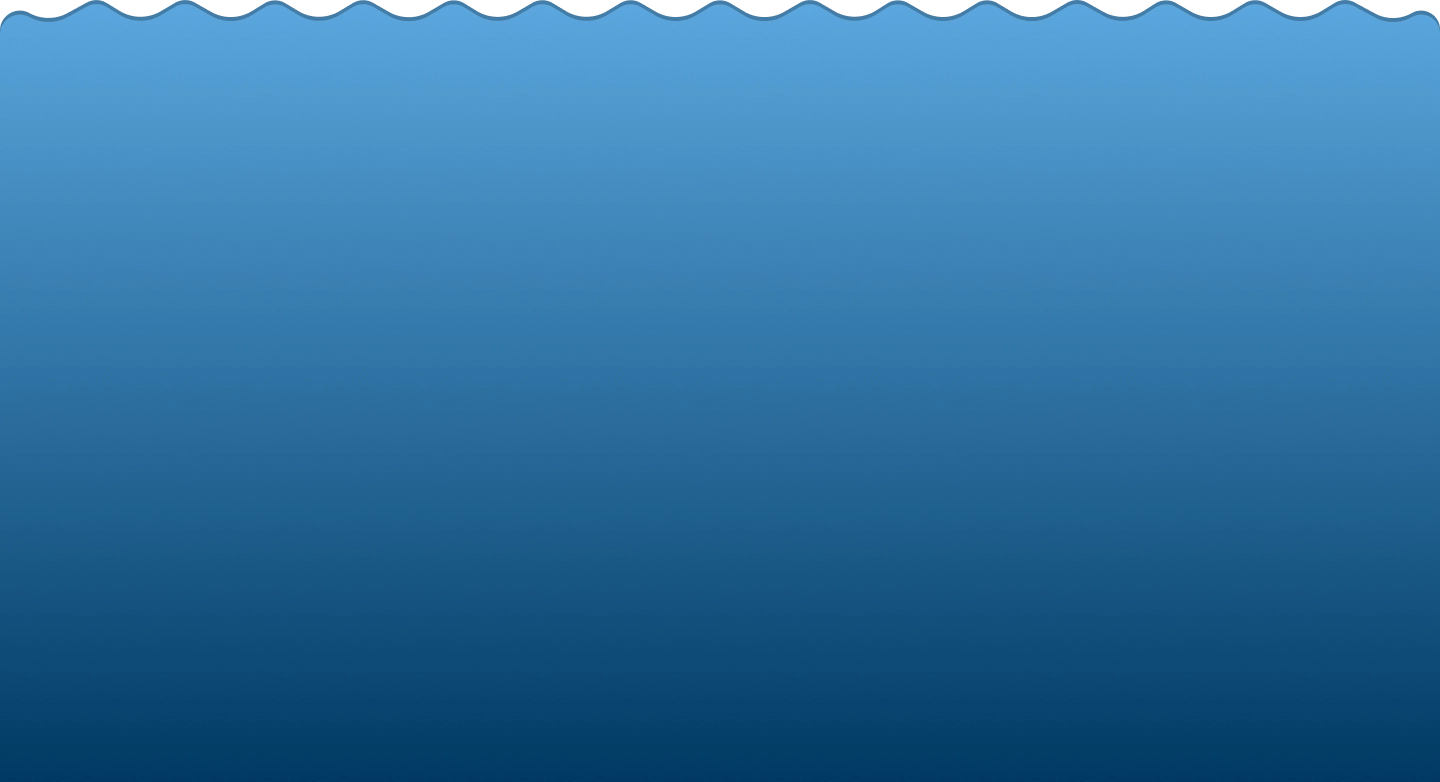
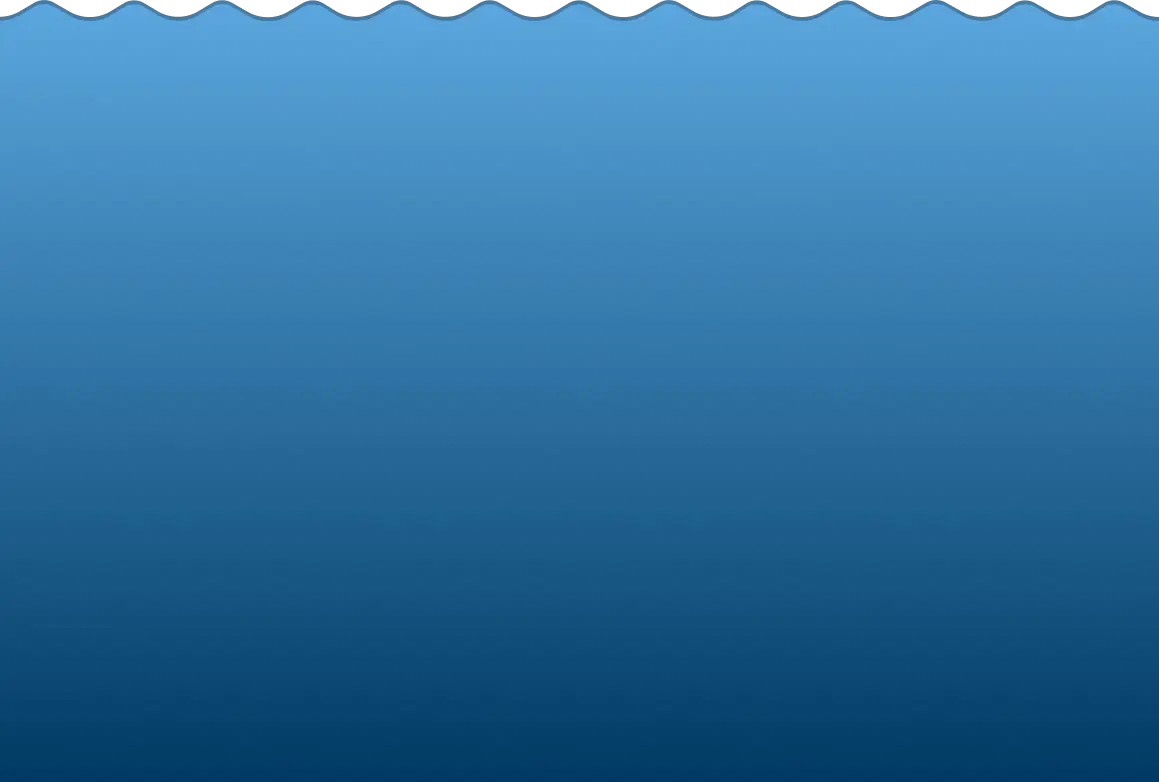
fix

Changed region(s): [[0.0, 0.0, 1.0, 0.0307]]

diff --git a/src/components/Decor/Decor.scss b/src/components/Decor/Decor.scss
@@ -1,71 +1,92 @@
 @keyframes shake {
-    0%{
-        transform: translateX(0px);
-        transform: translateY(0px);
+    0% {
         rotate: 0deg;
     }
-    33%{
-        transform: translate(30px, -10px);
+
+    33% {
         rotate: -5deg;
     }
-    66%{
-        transform: translate(-20px, 10px);
+
+    66% {
         rotate: 2deg;
     }
-    100%{
-        transform: translate(0px, 0px);
+
+    100% {
         rotate: 0deg;
     }
 }
 
-.Decor{
+.Decor {
     width: 100%;
     background-image: url('/img/bg.webp');
-    background-repeat: no-repeat;
-    background-size: cover;
-    min-height: 90vh;
+    background-repeat: repeat-x;
+    height: 600px;
+    background-size: 1200px 600px;
     display: flex;
     justify-content: center;
     align-items: flex-end;
-    &__info{
+
+    @media(max-width: 800px) {
+
+        height: 300px;
+        background-size: 600px 300px;
+    }
+
+
+    animation: sea 100s infinite linear;
+
+    @keyframes sea {
+        0% {
+            background-position: 0% 0%;
+        }
+
+        100% {
+            background-position: -100% 0%;
+        }
+    }
+
+    &__info {
         width: 100% !important;
         display: flex;
         align-items: flex-end;
-        justify-content: space-between;
-        &_table{
+        justify-content: center;
+
+        &_table {
             animation: shake 4s infinite;
-            width: 10% !important;
-            justify-content: start !important;
-            bottom: 30vh;
-            left: 20%;
-            img{
-                width: 150%;
+            align-items: end !important;
+            left: 280px;
+            bottom: 120px;
+
+            @media(max-width: 1300px) {
+                left: 20vw;
+                bottom: 15vw;
+            }
+
+            &_right {
+                left: -200px;
+                bottom: 150px;
+                animation: shake 7s infinite;
+
+                @media(max-width: 1300px) {
+                    left: -20vw;
+                    bottom: 15vw;
+                }
+            }
+
+            img {
+                width: 15vw;
+                max-width: 200px;
             }
         }
-        &_duck{
+
+        &_duck {
             align-items: flex-end !important;
             justify-content: center !important;
             z-index: 999;
-            width: 80% !important;
-            img{
-                width: 100%;
-                min-width: 750px;
-                @media(max-height: 670px){
-                    width: 90%;
-                }
-                @media(max-height: 470px){
-                    width: 60%;
-                }
-            }
-        }
-        &_table2{
-            animation: shake 7s infinite;
-            width: 10% !important;
-            justify-content: end !important;
-            bottom: 30vh;
-            right: 20%;
-            img{
-                width: 150%;
+
+            img {
+                width: 90vw;
+                max-width: 1000px;
             }
         }
     }

diff --git a/src/components/Footer/Footer.scss b/src/components/Footer/Footer.scss
@@ -1,4 +1,4 @@
-.Footer{
+.Footer {
     width: 100%;
     display: flex;
     flex-wrap: wrap;
@@ -9,42 +9,65 @@
     border-top: 5px solid #447DA6;
     padding: 50px 20px 100px 20px;
     gap: 40px;
-    &__social{
+
+
+    animation: footerBg 100s infinite linear;
+
+    @keyframes footerBg {
+        0% {
+            background-position: 0% 0%;
+        }
+
+        100% {
+            background-position: 100% 200%;
+        }
+    }
+
+    &__social {
         width: 100%;
         display: flex;
         justify-content: center;
         align-items: center;
         gap: 20px;
-        img{
+
+        img {
             width: 89px;
         }
     }
-    &__title{
+
+    &__title {
         width: 100%;
         display: flex;
         justify-content: center;
         align-items: center;
         gap: 20px;
-        @media(max-width: 830px){
+
+        @media(max-width: 830px) {
             flex-wrap: wrap;
         }
-        &_item{
+
+        &_item {
             width: calc(33% - 20px);
             font-weight: 700;
-            @media(max-width: 830px){
+
+            @media(max-width: 830px) {
                 width: 100%;
             }
-            &_c{
+
+            &_c {
                 font-size: 29px;
                 text-align: center;
-                @media(max-width: 1350px){
+
+                @media(max-width: 1350px) {
                     font-size: 20px;
                 }
             }
-            &_big{
+
+            &_big {
                 font-size: 50px;
                 text-align: center;
-                @media(max-width: 1350px){
+
+                @media(max-width: 1350px) {
                     font-size: 30px;
                 }
             }

diff --git a/src/null.scss b/src/null.scss
@@ -158,7 +158,7 @@ body {
     justify-content: center;
     overflow: hidden;
 
-    
+
 }
 
 
@@ -166,7 +166,7 @@ img {
     user-select: none;
 }
 
-.allcontainer{
+.allcontainer {
     width: 100%;
     max-width: 1600px;
     display: flex;
@@ -175,36 +175,38 @@ img {
     flex-wrap: wrap;
     margin: 0 auto;
     gap: 50px;
-    @media(max-width: 1000px){
+
+    @media(max-width: 1000px) {
         gap: 25px;
     }
 }
 
-.componentContainer{
+.componentContainer {
     width: 100%;
     padding: 0px 88px;
     display: flex;
     justify-content: center;
     align-items: center;
-    @media(max-width: 1000px){
+
+    @media(max-width: 1000px) {
         padding: 0px 10px;
     }
 }
 
-.obrazec{
+.obrazec {
     font-family: 'Obrazec';
 }
 
-.finlandica{
+.finlandica {
     font-family: 'Finlandica';
 }
 
-.outfit{
+.outfit {
     font-family: 'Outfit';
 }
 
 
 
-.textShadow{
+.textShadow {
     text-shadow: 3.00px 0.00px #000000, 2.77px 1.15px #000000, 2.12px 2.12px #000000, 1.15px 2.77px #000000, 0.00px 3.00px #000000, -1.15px 2.77px #000000, -2.12px 2.12px #000000, -2.77px 1.15px #000000, -3.00px 0.00px #000000, -2.77px -1.15px #000000, -2.12px -2.12px #000000, -1.15px -2.77px #000000, -0.00px -3.00px #000000, 1.15px -2.77px #000000, 2.12px -2.12px #000000, 2.77px -1.15px #000000, 3.00px 7.00px #000000, 2.77px 8.15px #000000, 2.12px 9.12px #000000, 1.15px 9.77px #000000, 0.00px 10.00px #000000, -1.15px 9.77px #000000, -2.12px 9.12px #000000, -2.77px 8.15px #000000, -3.00px 7.00px #000000, -2.77px 5.85px #000000, -2.12px 4.88px #000000, -1.15px 4.23px #000000, -0.00px 4.00px #000000, 1.15px 4.23px #000000, 2.12px 4.88px #000000, 2.77px 5.85px #000000;
 }

diff --git a/src/components/Decor/Decor.jsx b/src/components/Decor/Decor.jsx
@@ -1,6 +1,6 @@
 import './Decor.scss';
-export default () => {return (
-    <div className='componentContainer'>
+export default () => {
+    return (
         <div className='Decor'>
             <div className='Decor__info'>
                 <div className='Decor__info_table free_img'>
@@ -9,10 +9,10 @@ export default () => {return (
                 <div className='Decor__info_duck free_img'>
                     <img src="/img/duck.webp" alt="" />
                 </div>
-                <div className='Decor__info_table2 free_img'>
+                <div className='Decor__info_table Decor__info_table_right free_img'>
                     <img src="/img/caption2.webp" alt="" />
                 </div>
             </div>
         </div>
-    </div>
-)}
+    )
+}

diff --git a/src/components/Footer/Footer.jsx b/src/components/Footer/Footer.jsx
@@ -1,6 +1,7 @@
 import './Footer.scss';
-export default () => {return (
-    <div className='componentContainer'>
+export default () => {
+    return (
+        // <div className='componentContainer'>
         <div className='Footer'>
             <div className='Footer__social'>
                 <img src="/img/tg.svg" alt="" />
@@ -12,5 +13,6 @@ export default () => {return (
                 <div className='Footer__title_item'></div>
             </div>
         </div>
-    </div>
-)}
+        // </div>
+    )
+}

diff --git a/src/App.jsx b/src/App.jsx
@@ -15,14 +15,9 @@ function App() {
         {/* <Hero /> */}
         <About />
         <CA />
-        <Decor />
-        
-
-        
       </div>
-      <div className="allcontainer">
-        <Footer />
-      </div>
+      <Decor />
+      <Footer />
       <ToastContainer />
     </>
   )
